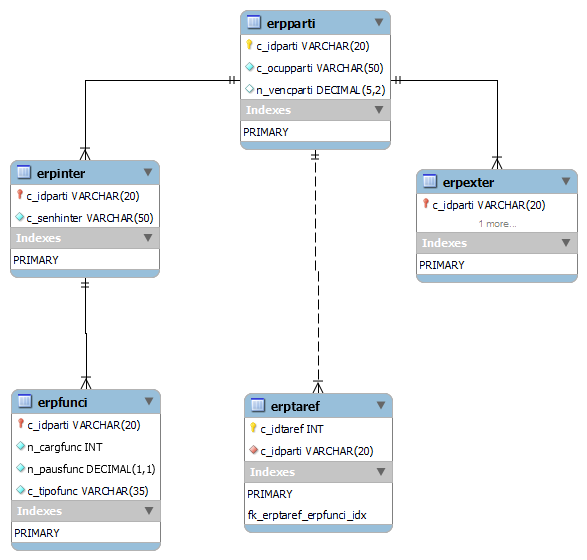
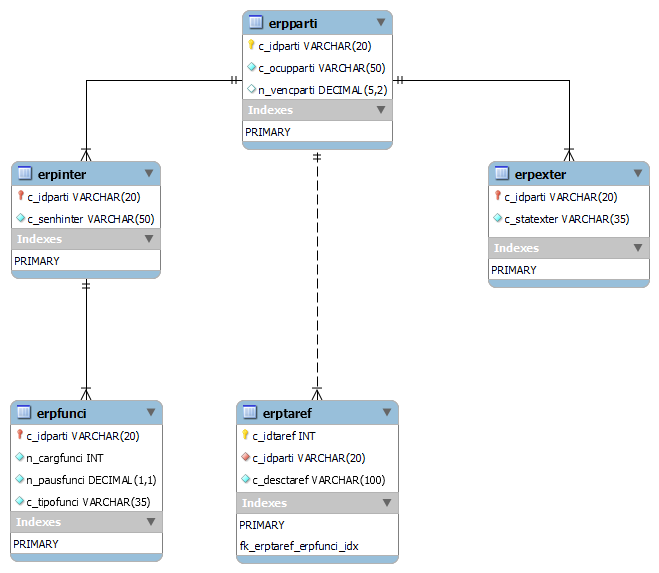
ops: corrige nomenclatura de campos para seguir padrao

Changed region(s): [[0.0, 0.0, 0.8586, 1.0], [0.3373, 0.6679, 0.6746, 1.0], [0.7053, 0.1518, 1.0, 0.5161]]

diff --git a/erp/src/main/java/com/me/erp/participante/interno/funcionario/supervisor/supervisordeti/SupervisorDeTi.java b/erp/src/main/java/com/me/erp/participante/interno/funcionario/supervisor/supervisordeti/SupervisorDeTi.java
@@ -1,6 +1,8 @@
 package com.me.erp.participante.interno.funcionario.ti;
 
 import com.me.erp.participante.interno.funcionario.Funcionario;
+import com.me.erp.participante.interno.funcionario.clt.desenvolvedor.Desenvolvedor;
+import com.me.erp.participante.interno.funcionario.estagiario.estagiariodeti.EstagiarioDeTi;
 import com.me.erp.participante.interno.funcionario.supervisor.DemissaoInvalidaException;
 import com.me.erp.participante.interno.funcionario.supervisor.PromocaoInvalidaException;
 import com.me.erp.participante.interno.funcionario.supervisor.Supervisor;

diff --git a/erp/src/main/java/com/me/erp/dao/participante/interno/funcionario/clt/estagiario/estagiariodeti/EstagiarioDeTiDaoJdbcImpl.java b/erp/src/main/java/com/me/erp/dao/participante/interno/funcionario/clt/estagiario/estagiariodeti/EstagiarioDeTiDaoJdbcImpl.java
@@ -1,7 +1,7 @@
 package com.me.erp.dao.estagiariodeti;
 
 import com.me.erp.dao.Dao;
-import com.me.erp.participante.interno.funcionario.ti.EstagiarioDeTi;
+import com.me.erp.participante.interno.funcionario.estagiario.estagiariodeti.EstagiarioDeTi;
 import org.springframework.beans.factory.annotation.Autowired;
 import org.springframework.jdbc.core.JdbcTemplate;
 import org.springframework.jdbc.core.RowMapper;

diff --git a/erp/src/main/java/com/me/erp/participante/interno/funcionario/estagiario/estagiariodeti/EstagiarioDeTiFactory.java b/erp/src/main/java/com/me/erp/participante/interno/funcionario/estagiario/estagiariodeti/EstagiarioDeTiFactory.java
@@ -1,7 +1,7 @@
 package com.me.erp.factories.participante.interno.funcionario.estagiario;
 
 import com.me.erp.participante.interno.Credenciais;
-import com.me.erp.participante.interno.funcionario.ti.EstagiarioDeTi;
+import com.me.erp.participante.interno.funcionario.estagiario.estagiariodeti.EstagiarioDeTi;
 
 import java.util.List;
 
